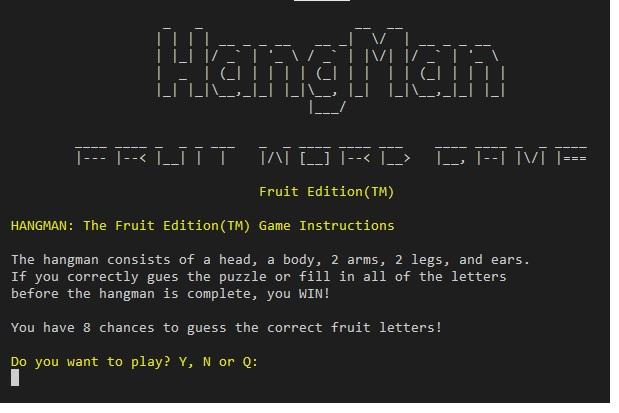
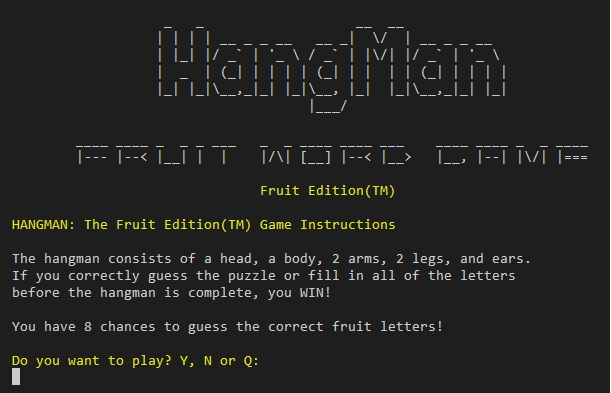
reupload readme color bleed images

Changed region(s): [[0.0, 0.0, 1.0, 1.0], [0.2488, 0.0611, 0.8396, 0.3053], [0.1244, 0.3359, 0.3732, 0.4275]]

diff --git a/run.py b/run.py
@@ -264,8 +264,8 @@ def instructions():
     else call instructions again
     """
     clear()
-    print(Fore.RESET)  # reset color
-    delete_last_line()
+    # print(Fore.RESET)  # reset color
+    # delete_last_line()
     logo_display()
     game_rules()
     user_input = input(
